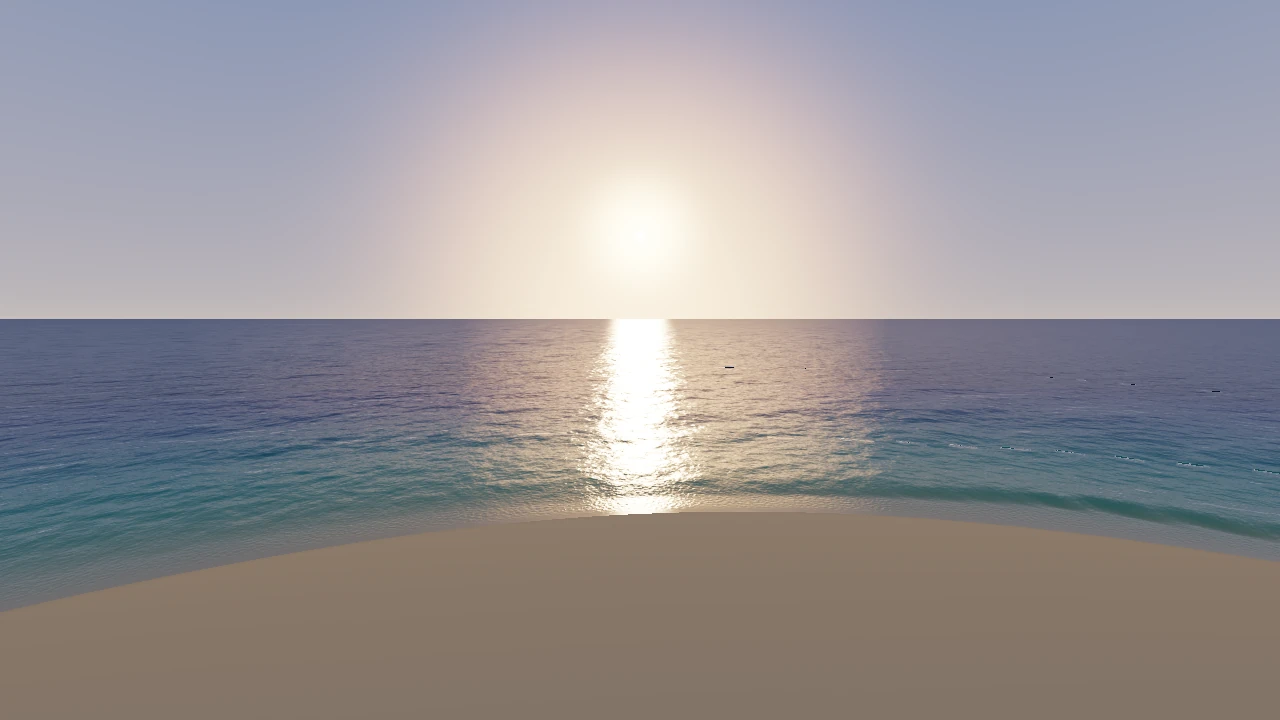
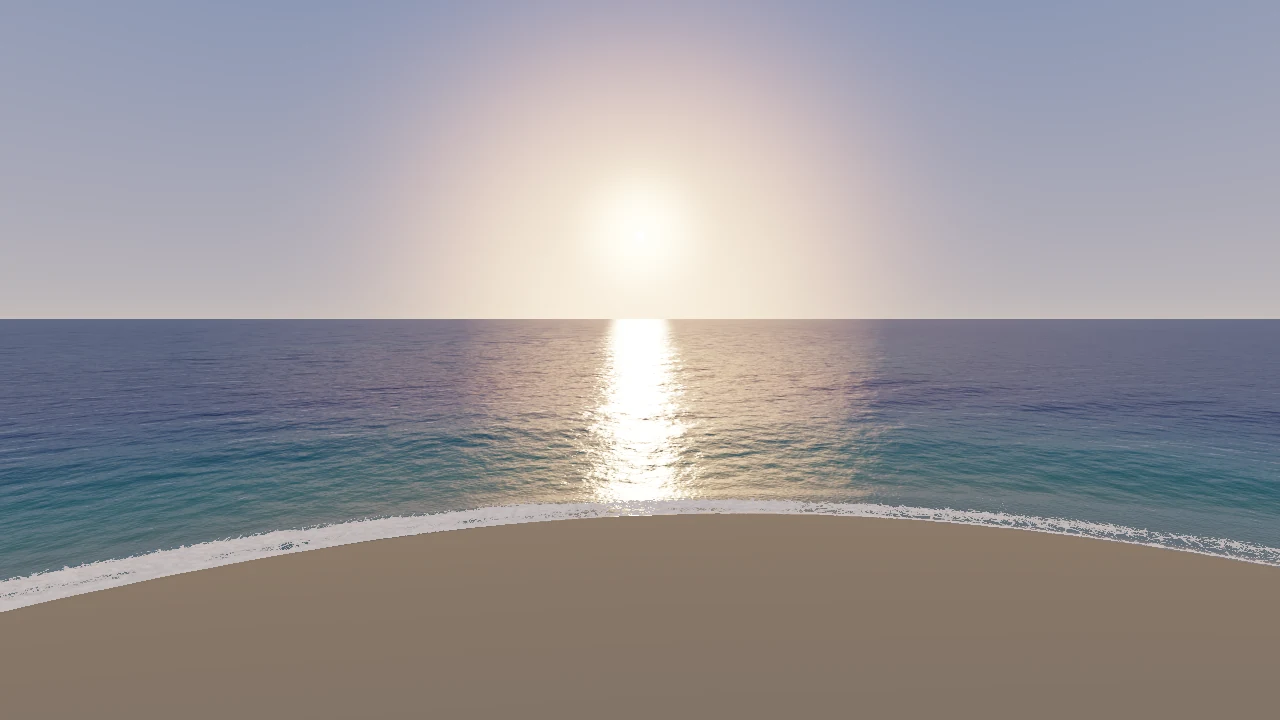
wip: the sea's lace, the bed's gathered light, the surface from under
A spent swash sheet no longer lifts deep water to the still level: the
slow surface had a step along every crest line out to sea. Foam thins
into threads along cell walls. Ripples gather the sun on a shallow bed.
The surface seen from inside the water shows the sky's window.

Claude-Session: https://claude.ai/code/session_01DaohkFaRFVjmDtAdAJo43m

Changed region(s): [[0.0, 0.4889, 1.0, 0.8556]]

diff --git a/src/cube/shared/sea/sea-wgsl.ts b/src/cube/shared/sea/sea-wgsl.ts
@@ -1,5 +1,6 @@
 import { f32, wgsl } from '../lib/wgsl';
 import { AERIAL, CUBE_SHADOW } from '../outside';
+import { TILE } from './cascade';
 import { SEA_FOAM } from './sea-foam-wgsl';
 import { SEA_LIGHT } from './sea-light-wgsl';
 import { UNSEEN_SPREAD } from './sea-state';
@@ -9,6 +10,13 @@ import { SEA_SURFACE } from './sea-surface-wgsl';
 const BED_SHOWS = 24;
 /** The cosine of the sun's rays to the vertical once they are in the water. */
 const SUN_SINKS = 0.67;
+
+/** How strongly a ripple's curve brightens the bed under it. */
+const CAUSTIC = 4;
+/** The depth, metres, over which the bed's light pattern fades by 1/e. */
+const CAUSTIC_FADES = 3;
+/** The width a ray is blurred over on the bed, per metre of water above. */
+const CAUSTIC_BLUR = 0.12;
 
 /**
  * The sea's fragment: one pixel of water, lit. It writes the scene pass's
@@ -30,6 +38,8 @@ struct SeaOut {
 const FOAM = 0.8;
 /// What water full of bubbles returns, of the light a white face would show.
 const AERATED = vec3f(0.1, 0.24, 0.22);
+/// What the water's body shows an eye inside it, of the light falling on it.
+const DROWNED = vec3f(0.035, 0.13, 0.15);
 /// What a crest a metre thick lets through of the sun behind it.
 const CREST_GLOW = vec3f(0.01, 0.1, 0.085);
 
@@ -47,8 +57,23 @@ fn bedUnder(start: vec3f, ray: vec3f, column: f32) -> vec3f {
   return start + ray * reach;
 }
 
+/// How the ripples over \`xz\` gather the sun on a bed \`over\` metres under
+/// them, about 1: a crest is a lens, and the deeper the bed the wider the
+/// ripples whose light comes to a line on it, until they all blur together.
+fn gathered(xz: vec2f, over: f32) -> f32 {
+  let quiet = calm(xz);
+  var bent = 0.0;
+  for (var i = 2u; i < CASCADES; i++) {
+    let lod = max(log2(over * ${f32(TILE * CAUSTIC_BLUR)} / SIDES[i]), 0.0);
+    let curve = textureSampleLevel(slopeMap, waveSampler, xz / SIDES[i], i, lod).zw;
+    bent -= quiet[i] * (curve.x + curve.y);
+  }
+  let strength = ${f32(CAUSTIC)} * smoothstep(0.0, 0.3, over) * exp(-over / ${f32(CAUSTIC_FADES)});
+  return exp(clamp(strength * bent, -1.0, 1.4));
+}
+
 @fragment
-fn seaFragment(in: SeaVarying) -> SeaOut {
+fn seaFragment(in: SeaVarying, @builtin(front_facing) above: bool) -> SeaOut {
   let across = dpdx(in.still);
   let down = dpdy(in.still);
   let reach = in.world - frame.eye.xyz;
@@ -78,9 +103,12 @@ fn seaFragment(in: SeaVarying) -> SeaOut {
     let bed = bedUnder(in.world, refract(-toEye, normal, 0.75), column);
     let through = length(bed - in.world);
     let over = max(shore.level - bed.y, 0.0);
+    // The sky is too wide a lamp to come to a line, but its brighter half
+    // still gathers a little.
+    let gather = gathered(bed.xz, over);
     let lit = SEA_BED * (
-      sunEntering() * cubeShadow(bed) * kept(over / ${f32(SUN_SINKS)})
-        + SKY_FILL * kept(over)
+      sunEntering() * cubeShadow(bed) * kept(over / ${f32(SUN_SINKS)}) * gather
+        + SKY_FILL * kept(over) * mix(1.0, gather, 0.3)
     );
     let shows = smoothstep(${f32(BED_SHOWS)}, ${f32(0.5 * BED_SHOWS)}, column);
     under = mix(
@@ -96,6 +124,20 @@ fn seaFragment(in: SeaVarying) -> SeaOut {
   under += sunlit * SUN_LIGHT * CREST_GLOW
     * smoothstep(0.05, 0.5, in.world.y) * against * against * against;
 
+  if (!above && frame.eye.y < in.world.y) {
+    // The surface from under it: the sky through the window overhead, and
+    // round that the water's own body mirrored back down.
+    var body = DROWNED * falling;
+    let out = refract(-toEye, -normal, 1.333);
+    if (dot(out, out) > 0.0) {
+      body = mix(body, skyRadiance(out, 2.0), 1.0 - fresnel(dot(toEye, -normal)));
+    }
+    var drowned: SeaOut;
+    drowned.light = vec4f(body, far);
+    drowned.depth = in.clip.z;
+    return drowned;
+  }
+
   let water = seen.sky
     + (1.0 - seen.share) * under
     + sunlit * glitter(waves, toEye, seen.shown);
@@ -103,8 +145,11 @@ fn seaFragment(in: SeaVarying) -> SeaOut {
     SUN_LIGHT * sunlit * (0.3 + 0.7 * max(dot(normal, frame.sun.xyz), 0.0))
       + SKY_FILL
   );
-  let foam = lace(in.still, foamThickness(shore, waves.squeeze));
-  let colour = mix(water, white, foam);
+  let thick = foamThickness(in.still, shore, waves.squeeze);
+  let foam = lace(in.still, thick);
+  // Thin foam is a film the water shows through; churning foam is white.
+  let froth = 0.78 + 0.3 * fbm(in.still * 6.0, 41u, 3);
+  let colour = mix(water, white * froth * mix(0.8, 1.0, min(thick, 1.0)), foam);
 
   var out: SeaOut;
   out.light = vec4f(aerial(colour, -toEye, far), far);

diff --git a/src/cube/shared/sea/sea-foam-wgsl.ts b/src/cube/shared/sea/sea-foam-wgsl.ts
@@ -4,7 +4,7 @@ import { PERIOD } from '../outside/swell';
 import { SEA_SHORE } from './sea-shore-wgsl';
 
 /** Seconds over which the foam a breaker leaves behind thins to 1/e. */
-const TRAIL_LASTS = 2.8;
+const TRAIL_LASTS = 2.2;
 /** The same for the bubbles it drives under, which outlast the foam on top. */
 const BUBBLES_LAST = 5;
 /** And for the foam riding a swash sheet. */
@@ -20,30 +20,60 @@ const EDGE = 0.025;
 export const SEA_FOAM = wgsl(
   'sea/foam',
   /* wgsl */ `
+/// How far \`p\` stands from the nearest wall between cells of a unit
+/// lattice with one point in each: 0 on a wall.
+fn foamWalls(p: vec2f, salt: u32) -> f32 {
+  let cell = vec2i(floor(p));
+  var first = 8.0;
+  var second = 8.0;
+  for (var dy = -1; dy <= 1; dy++) {
+    for (var dx = -1; dx <= 1; dx++) {
+      let other = cell + vec2i(dx, dy);
+      let word = cellHash(other, salt);
+      let distance = length(vec2f(other) + vec2f(unitOf(word), unitOf(mix32(word))) - p);
+      if (distance < first) {
+        second = first;
+        first = distance;
+      } else if (distance < second) {
+        second = distance;
+      }
+    }
+  }
+  return second - first;
+}
+
 /// How much of a pixel foam of thickness \`dense\` covers at \`p\`, metres on
-/// the sea: whole at 1 and over, and thinning into a web whose holes open.
+/// the sea: whole at 1 and over, then breaking into patches joined by the
+/// threads that bubbles gather into along the walls between cells.
 fn lace(p: vec2f, dense: f32) -> f32 {
   if (dense <= 0.02) {
     return 0.0;
   }
-  let warp = vec2f(valueNoise(p * 1.3, 11u), valueNoise(p * 1.3 + vec2f(7.7, 3.1), 12u)) - 0.5;
-  let web = 0.6 * worley(p * 2.3 + 1.2 * warp, 21u).x
-    + 0.4 * worley(p * 8.5 + 3.0 * warp, 22u).x;
-  let open = mix(0.72, -0.2, min(dense, 1.0));
-  return smoothstep(open, open + 0.2, web) * smoothstep(0.02, 0.12, dense);
+  let warp = vec2f(fbm(p * 0.9, 11u, 3), fbm(p * 0.9 + vec2f(7.7, 3.1), 14u, 3)) - 0.5;
+  let fold = vec2f(valueNoise(p * 3.7, 12u), valueNoise(p * 3.7 + vec2f(2.3, 9.1), 13u)) - 0.5;
+  let at = p + 0.9 * warp + 0.22 * fold;
+  let patches = fbm(at * 0.7, 17u, 4);
+  let threads = 1.0 - smoothstep(0.0, 0.3, foamWalls(at * 2.6, 21u));
+  let fine = 1.0 - smoothstep(0.0, 0.4, foamWalls(at * 9.0, 22u));
+  let body = 0.5 * patches + 0.32 * threads + 0.18 * fine;
+  let open = 1.0 - 1.15 * min(dense, 1.0);
+  return smoothstep(open, open + 0.16, body) * smoothstep(0.02, 0.1, dense);
 }
 
 /// How thick the foam lies at \`still\`: the wind's whitecaps, where the
 /// surface is squeezed to a point; a breaker's roller and what it leaves; and
 /// the swash sheets' edges and backs. Over 1 where it is churning.
-fn foamThickness(shore: Shore, squeeze: f32) -> f32 {
+fn foamThickness(still: vec2f, shore: Shore, squeeze: f32) -> f32 {
   var dense = smoothstep(0.6, 1.1, -squeeze);
   if (shore.bed < 0.0 && shore.broken > 0.0) {
+    // The roller's back edge is ragged: each stretch of crest lets go of
+    // its foam a little sooner or later than the next.
+    let ragged = shore.phase - 0.035 * fbm(still * 1.7, 31u, 3);
     let roller = max(
-      smoothstep(0.9, 0.965, shore.phase),
-      1.0 - smoothstep(0.0, 0.07, shore.phase),
+      smoothstep(0.93, 0.965, shore.phase),
+      1.0 - smoothstep(0.0, 0.035, ragged),
     );
-    let trail = exp(-shore.phase * ${f32(PERIOD / TRAIL_LASTS)});
+    let trail = 0.75 * exp(-shore.phase * ${f32(PERIOD / TRAIL_LASTS)});
     dense = max(dense, shore.broken * max(1.4 * roller, trail));
   }
   for (var i = 0; i < 2; i++) {

diff --git a/src/cube/shared/outside/water-level.ts b/src/cube/shared/outside/water-level.ts
@@ -48,6 +48,15 @@ const RUNUP = 0.55;
 const THICK = 1.5;
 /** Seconds a sheet takes to gather at the still shoreline. */
 const GATHERS = 0.5;
+/** The depth of still water, metres, past which no sheet lifts the surface. */
+const SHEET_REACHES = 0.6;
+/**
+ * How far under the still sea a spent sheet's top is said to lie, and the
+ * sheet depth under which it sinks there: a sheet draining off the sand
+ * hands the surface back to the surf without a step.
+ */
+const SINKS = 0.1;
+const SINKS_UNDER = 0.01;
 /** How far under dry sand the level is said to lie. */
 const DRY = 0.03;
 /** The width, metres, the level's joins are rounded over. */
@@ -174,7 +183,12 @@ export function swellLevel(
   );
   const floor =
     bed < 0 ? surfLevel(tau, bed, shelter) : bed - DRY * smoothstep(0, 0.05, bed);
-  return sheet > 0 ? over(floor, Math.max(bed, 0) + sheet) : floor;
+  if (sheet <= 0) return floor;
+  const top =
+    Math.max(bed, 0) +
+    sheet -
+    (bed < 0 ? SINKS * (1 - smoothstep(0, SINKS_UNDER, sheet)) : 0);
+  return mix(floor, over(floor, top), smoothstep(-SHEET_REACHES, -0.1, bed));
 }
 
 /** The bed's rise per metre at `xz`, along x and z, read `FACING_REACH` either side. */
@@ -292,10 +306,14 @@ fn swellLevel(run: f32, bed: f32, facing: f32, seconds: f32) -> f32 {
   if (bed < 0.0) {
     low = surfLevel(tau, bed, shelter);
   }
-  if (sheet > 0.0) {
-    return shoreOver(low, max(bed, 0.0) + sheet);
+  if (sheet <= 0.0) {
+    return low;
   }
-  return low;
+  var top = max(bed, 0.0) + sheet;
+  if (bed < 0.0) {
+    top -= ${f32(SINKS)} * (1.0 - smoothstep(0.0, ${f32(SINKS_UNDER)}, sheet));
+  }
+  return mix(low, shoreOver(low, top), smoothstep(${f32(-SHEET_REACHES)}, -0.1, bed));
 }
 
 /// The bed's rise per metre at \`xz\`, along x and z.

diff --git a/src/cube/pages/cube/ui/sea-layer.ts b/src/cube/pages/cube/ui/sea-layer.ts
@@ -18,7 +18,10 @@ const EDGE_POINTS = 9;
  */
 const RISES = 0.05;
 
-/** The mesh's triangles: two per cell between neighbouring rings and spokes. */
+/**
+ * The mesh's triangles: two per cell between neighbouring rings and spokes,
+ * wound so the side that faces up is the front.
+ */
 function cells(): Uint32Array {
   const indices = new Uint32Array((RINGS - 1) * SPOKES * 6);
   const row = SPOKES + 1;
@@ -27,7 +30,7 @@ function cells(): Uint32Array {
     for (let spoke = 0; spoke < SPOKES; spoke += 1) {
       const corner = ring * row + spoke;
       const out = corner + row;
-      indices.set([corner, out, corner + 1, corner + 1, out, out + 1], at);
+      indices.set([corner, corner + 1, out, corner + 1, out + 1, out], at);
       at += 6;
     }
   }
